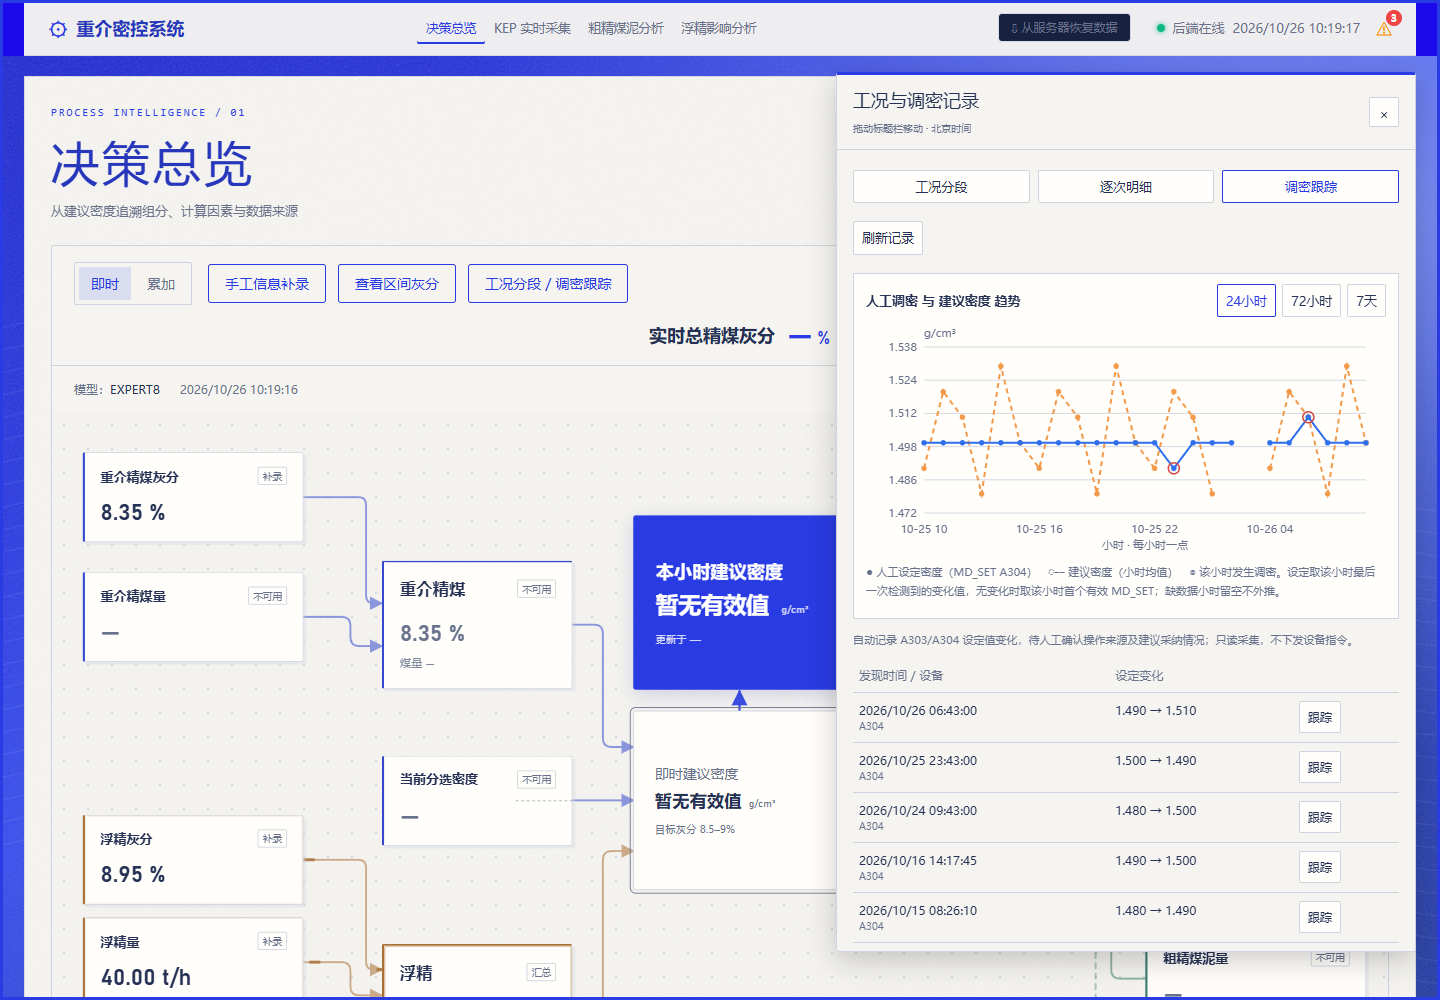
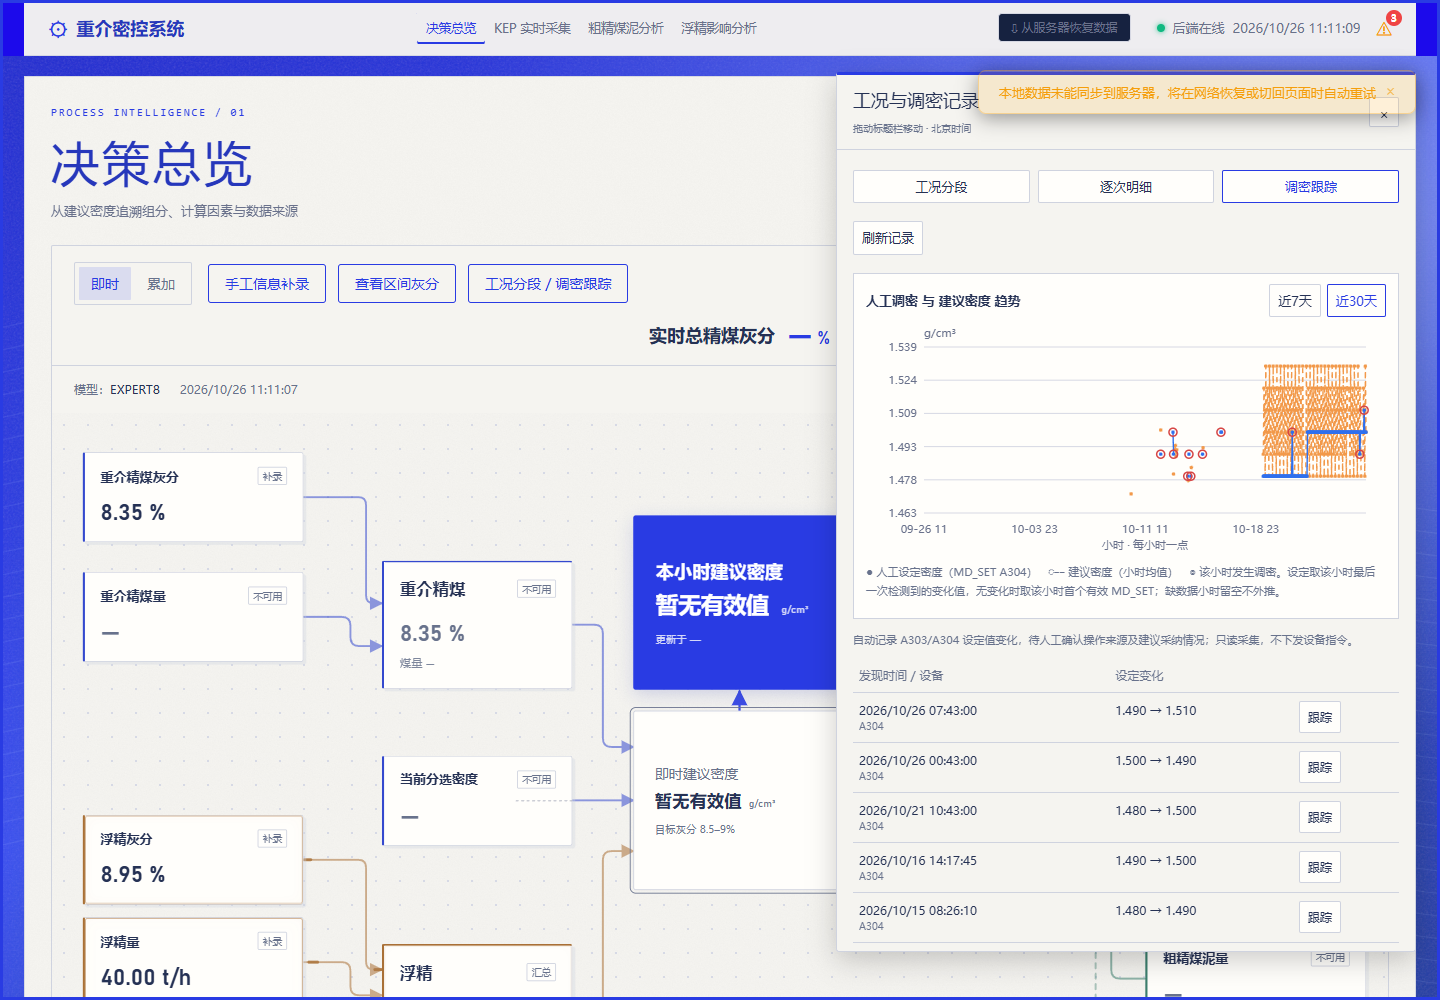
feat: density trend windows as rolling last 7 and 30 days
Replace the 24h/72h/7d range options with 近7天 (168h, new default) and
近30天 (720h) rolling windows ending at the current hour, and raise the
endpoint cap accordingly.

The 30-day window exceeded the read-only proxy's result limit (413)
when whole DecisionCycleHour snapshots crossed the wire; project only
the needed JSON fields (hourly advice, anchor basis value/components,
action before/after setpoints) so a full month fits. Dense 720-point
rendering uses thinner lines and smaller dots to stay readable.

Verified live against the host through the laptop proxy: 720 items,
236 setpoint hours, 105 advice hours, 28 tracked actions; browser
verification rerun with the new ranges (screenshot updated).

diff --git a/frontend/js/decision-evidence.js b/frontend/js/decision-evidence.js
@@ -1,6 +1,6 @@
 /* GPT-only evidence, never updates App.store, a model, or a device. */
 const DecisionEvidence = {
-    dialog:null, seq:0, selected:null, result:null, offset:0, start:'', mode:'segments', busy:false, trendHours:72,
+    dialog:null, seq:0, selected:null, result:null, offset:0, start:'', mode:'segments', busy:false, trendHours:168,
     drafts:new Map(), requests:new Map(),
     labels:{raw_ash:'原煤灰分',coal_amount:'入洗原煤量',level:'精磁尾液位',density:'实测密度',heavy_ash:'重介精煤灰分',float_ash:'浮精灰分',coarse_ash:'粗精煤泥灰分',coarse_amount:'粗精煤泥量',heavy_amount:'重介精煤量',float_amount:'浮精量',total_ash:'总灰分',belt501:'501 带煤量',belt502:'502 带煤量',reagent:'药剂量',raw_slime:'原煤煤泥含量',suggested_density:'建议密度'},
     esc(value) {return DecisionAshHistory.escape(value);},
@@ -127,7 +127,7 @@ const DecisionEvidence = {
     },
     renderActions(r,trend) {
         const series=this.trendSeries(trend?.items),channel=this.esc(trend?.channel||'');
-        const ranges=[24,72,168].map(h=>`<button data-e-range="${h}" aria-pressed="${h===this.trendHours}">${h===168?'7天':h+'小时'}</button>`).join('');
+        const ranges=[168,720].map(h=>`<button data-e-range="${h}" aria-pressed="${h===this.trendHours}">${h===168?'近7天':'近30天'}</button>`).join('');
         const chart=trend?.error?`<p class="evidence-note">趋势数据读取失败：${this.esc(trend.error)}</p>`:
             `<div class="evidence-trend-plot"><canvas id="evidence-density-trend" tabindex="0" role="img" aria-label="人工设定密度与建议密度逐小时趋势图，方向键查看数值"></canvas><div class="evidence-trend-tooltip" hidden></div></div>
              <p class="evidence-note">● 人工设定密度（MD_SET ${channel||'全部通道'}）　◌╌ 建议密度（小时均值）　◎ 该小时发生调密。设定取该小时最后一次检测到的变化值，无变化时取该小时首个有效 MD_SET；缺数据小时留空不外推。</p>`;
@@ -175,18 +175,19 @@ const DecisionEvidence = {
         for(let i=0;i<n;i+=step)ctx.fillText(series[i].label,x(i),h-bottom+20);
         ctx.textAlign='center';ctx.fillText('小时 · 每小时一点',left+xWidth/2,h-6);
         const line=(field,color,dash)=>{
-            ctx.strokeStyle=color;ctx.fillStyle=color;ctx.lineWidth=2;ctx.setLineDash(dash);
+            ctx.strokeStyle=color;ctx.fillStyle=color;ctx.lineWidth=n>240?1.4:2;ctx.setLineDash(dash);
             ctx.beginPath();let started=false;
             series.forEach((s,i)=>{if(!Number.isFinite(s[field])){started=false;return;}
                 started?ctx.lineTo(x(i),y(s[field])):ctx.moveTo(x(i),y(s[field]));started=true;});
             ctx.stroke();ctx.setLineDash([]);
+            const radius=n>240?1.7:2.7;
             series.forEach((s,i)=>{if(!Number.isFinite(s[field]))return;
-                ctx.beginPath();ctx.arc(x(i),y(s[field]),2.7,0,Math.PI*2);ctx.fill();});
+                ctx.beginPath();ctx.arc(x(i),y(s[field]),radius,0,Math.PI*2);ctx.fill();});
         };
         line('suggested',c.orange,[5,4]);
         line('setpoint',c.blue,[]);
         series.forEach((s,i)=>{if(!s.actions.length||!Number.isFinite(s.setpoint))return;
-            ctx.strokeStyle=c.red;ctx.lineWidth=1.5;ctx.beginPath();ctx.arc(x(i),y(s.setpoint),5.5,0,Math.PI*2);ctx.stroke();});
+            ctx.strokeStyle=c.red;ctx.lineWidth=1.5;ctx.beginPath();ctx.arc(x(i),y(s.setpoint),n>240?4:5.5,0,Math.PI*2);ctx.stroke();});
         canvas._hits=series.map((s,i)=>({x:x(i),y:y(Number.isFinite(s.setpoint)?s.setpoint:(Number.isFinite(s.suggested)?s.suggested:min)),
             text:`${s.label}:00 小时\n人工设定 ${s.setpoint===null?'—':s.setpoint.toFixed(3)} g/cm³${s.actions.length?`（该小时调密 ${s.actions.length} 次：${s.actions.map(a=>`${this.num(a.before)}→${this.num(a.after)}`).join('，')}）`:s.setpointOrigin==='anchor'?'（本小时无调整）':''}\n建议密度 ${s.suggested===null?'—':s.suggested.toFixed(3)} g/cm³${s.suggested===null&&s.suggestedReason?`（${this.esc(s.suggestedReason)}）`:''}\n建议−设定 ${Number.isFinite(s.suggested)&&Number.isFinite(s.setpoint)?(s.suggested-s.setpoint).toFixed(3):'—'}`}));
         const tooltip=plot.querySelector('.evidence-trend-tooltip');

diff --git a/backend/scripts/verify_density_trend_browser.js b/backend/scripts/verify_density_trend_browser.js
@@ -8,9 +8,9 @@ const output = path.join(root,'docs/verification/density-trend-20261026');
 const url = process.env.DMCS_VERIFY_URL || 'http://127.0.0.1:8767';
 
 (async () => {
-    const trend = await (await fetch(url+'/api/v1/decision/evidence/density-trend?limit=72')).json();
+    const trend = await (await fetch(url+'/api/v1/decision/evidence/density-trend?limit=168')).json();
     assert.equal(trend.policy,'density-trend-v1');
-    assert.equal(trend.items.length,72);
+    assert.equal(trend.items.length,168);
     const withSetpoint = trend.items.filter(i => i.setpoint.value !== null);
     const withSuggested = trend.items.filter(i => i.suggested.value !== null);
     const withActions = trend.items.filter(i => i.actions.length);
@@ -64,10 +64,10 @@ const url = process.env.DMCS_VERIFY_URL || 'http://127.0.0.1:8767';
         assert.ok(hover && !hover.hidden, 'tooltip did not open');
         assert.ok(hover.text.includes('人工设定 1.') && hover.text.includes('建议密度 1.'), hover.text);
         assert.ok(hover.text.includes('建议−设定'), hover.text);
-        // Range switch refetches a different window length.
-        await page.locator('[data-e-range="24"]').click();
-        await page.waitForFunction(() => document.getElementById('evidence-density-trend')?._hits?.length === 24);
-        assert.equal(await page.evaluate(() => DecisionEvidence.trendHours),24);
+        // Range switch to the 30-day window refetches 720 hourly points.
+        await page.locator('[data-e-range="720"]').click();
+        await page.waitForFunction(() => document.getElementById('evidence-density-trend')?._hits?.length === 720);
+        assert.equal(await page.evaluate(() => DecisionEvidence.trendHours),720);
         await page.screenshot({path:path.join(output,'density-trend.png')});
         assert.equal(await page.evaluate(() => JSON.stringify(App.store)),storeBefore);
         assert.deepEqual(errors,[]);

diff --git a/backend/app/decision_hourly/router.py b/backend/app/decision_hourly/router.py
@@ -107,23 +107,29 @@ def actions(limit:int=Query(20,ge=1,le=100),offset:int=Query(0,ge=0,le=100000),d
 
 
 @router.get('/density-trend')
-def density_trend(limit:int=Query(72,ge=6,le=336),db:Session=Depends(get_db)):
+def density_trend(limit:int=Query(168,ge=6,le=720),db:Session=Depends(get_db)):
     """Hourly operator setpoint vs suggested density for the trend chart.
 
     Setpoint standing in an hour = the last tracked change's after value, else
     the hour's MD_SET anchor (first valid, same channel as the density source).
     Hours with neither source stay empty instead of fabricating a carried value.
+    Only the required JSON fields are projected: full hour snapshots would exceed
+    the read-only proxy's result limit over 30-day windows.
     """
+    import json
     now=utc_now()
     end=now.astimezone(LOCAL).replace(minute=0,second=0,microsecond=0)
     start=end-timedelta(hours=limit)
-    hours={r.start:r for r in db.scalars(select(DecisionCycleHour).where(
+    hours={r[0]:(json.loads(r[1]) if r[1] else {}) for r in db.execute(select(
+        DecisionCycleHour.start,DecisionCycleHour.snapshot['suggested_density'].as_string()).where(
         DecisionCycleHour.start>=iso_time(start),DecisionCycleHour.start<iso_time(end)))}
-    anchors={r.start:r for r in db.scalars(select(GptHourlyDensityAnchor).where(
+    anchors={r[0]:dict(value=r[1],components=json.loads(r[2]) if r[2] else {}) for r in db.execute(select(
+        GptHourlyDensityAnchor.start,GptHourlyDensityAnchor.snapshot['basis']['value'].as_float(),
+        GptHourlyDensityAnchor.snapshot['basis']['components'].as_string()).where(
         GptHourlyDensityAnchor.start>=iso_time(start),GptHourlyDensityAnchor.start<iso_time(end)))}
     channel=None
     for key in sorted(anchors,reverse=True):
-        parts=(anchors[key].snapshot.get('basis') or {}).get('components') or {}
+        parts=anchors[key]['components']
         for part in (parts.values() if isinstance(parts,dict) else parts):
             item=part.get('item_id') or ''
             if '/MD_SET' in item:
@@ -132,14 +138,14 @@ def density_trend(limit:int=Query(72,ge=6,le=336),db:Session=Depends(get_db)):
         if channel:
             break
     by_hour={}
-    for r in db.scalars(select(DensityAction).where(DensityAction.detected_at>=iso_time(start),
-            DensityAction.detected_at<iso_time(end)).order_by(DensityAction.detected_at)):
-        if channel and r.channel!=channel:
+    for detected,action_channel,before,after in db.execute(select(DensityAction.detected_at,DensityAction.channel,
+            DensityAction.evidence['before']['pair']['setpoint']['value'].as_float(),
+            DensityAction.evidence['after']['pair']['setpoint']['value'].as_float()).where(
+            DensityAction.detected_at>=iso_time(start),DensityAction.detected_at<iso_time(end)).order_by(DensityAction.detected_at)):
+        if channel and action_channel!=channel:
             continue
-        stamp=business_time(r.detected_at).replace(minute=0,second=0,microsecond=0)
-        by_hour.setdefault(iso_time(stamp),[]).append(dict(at=r.detected_at,channel=r.channel,
-            before=(r.evidence.get('before',{}).get('pair',{}).get('setpoint') or {}).get('value'),
-            after=(r.evidence.get('after',{}).get('pair',{}).get('setpoint') or {}).get('value')))
+        stamp=business_time(detected).replace(minute=0,second=0,microsecond=0)
+        by_hour.setdefault(iso_time(stamp),[]).append(dict(at=detected,channel=action_channel,before=before,after=after))
     items=[]
     cursor=start
     while cursor<end:
@@ -148,17 +154,16 @@ def density_trend(limit:int=Query(72,ge=6,le=336),db:Session=Depends(get_db)):
         anchor=anchors.get(key)
         if acts and numeric(acts[-1]['after']):
             value,origin=acts[-1]['after'],'action'
-        elif anchor and numeric((anchor.snapshot.get('basis') or {}).get('value')):
-            value,origin=anchor.snapshot['basis']['value'],'anchor'
+        elif anchor and numeric(anchor['value']):
+            value,origin=anchor['value'],'anchor'
         else:
             value,origin=None,None
-        hour=hours.get(key)
-        advice=(hour.snapshot.get('suggested_density') or {}) if hour else {}
+        advice=hours.get(key) or {}
         items.append(dict(start=key,end=iso_time(cursor+timedelta(hours=1)),
             label=f'{cursor.astimezone(LOCAL):%m-%d %H}',
             setpoint=dict(value=value,origin=origin,unit='g/cm³'),
             suggested=dict(value=advice.get('value'),reason=advice.get('reason',''),
-                status=advice.get('status') if hour else 'no_hour'),
+                status=advice.get('status') if key in hours else 'no_hour'),
             actions=acts))
         cursor+=timedelta(hours=1)
     return dict(policy='density-trend-v1',generated_at=iso_time(now),

diff --git a/backend/tests/test_decision_evidence.py b/backend/tests/test_decision_evidence.py
@@ -252,3 +252,6 @@ def test_density_trend_pairs_manual_setpoint_with_suggested_advice(client,sessio
     assert items[iso_time(START-timedelta(hours=5))]['setpoint']['value'] is None
     assert items[iso_time(START-timedelta(hours=5))]['suggested']['status']=='no_hour'
     assert result['items']==sorted(result['items'],key=lambda item:item['start'])
+    month=client.get('/api/v1/decision/evidence/density-trend',params={'limit':720})
+    assert month.status_code==200 and month.json()['items'].__len__()==720
+    assert client.get('/api/v1/decision/evidence/density-trend',params={'limit':721}).status_code==422
